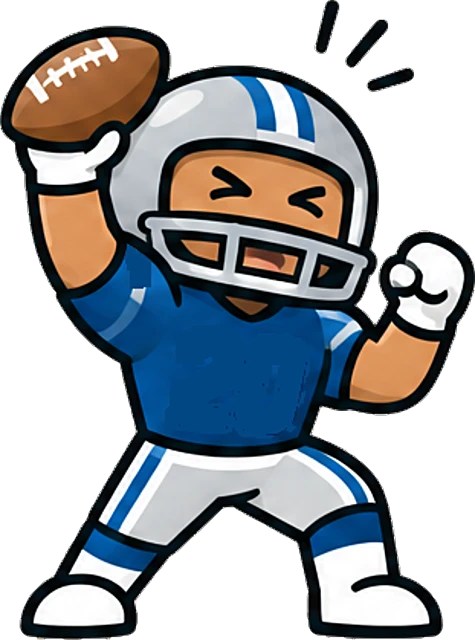
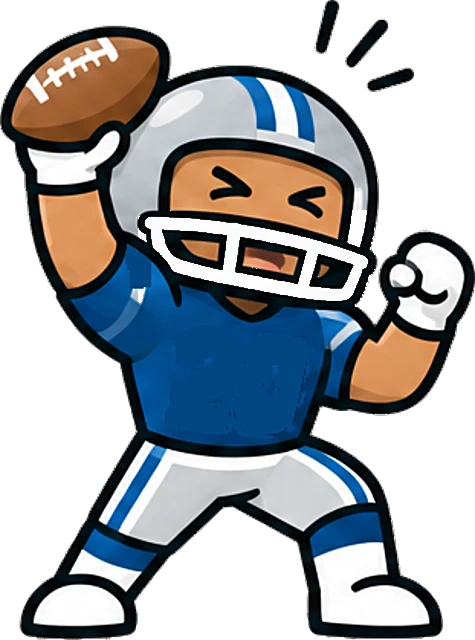
2.24.6: cards - every pose wears a white face mask

Changed region(s): [[0.2947, 0.3125, 0.7958, 0.4688], [0.2947, 0.4375, 0.3242, 0.4688]]

diff --git a/CHANGELOG.md b/CHANGELOG.md
@@ -20,6 +20,16 @@ CLAUDE.md.
 
 ## [Unreleased]
 
+## [2.24.6] - 2026-11-13
+
+Test site only.
+
+### Fixed
+- Cards: every pose wears a white face mask. Eight of the fourteen drew it in the helmet's grey, joined to the
+  helmet, so it took the team's second colour while the other six stayed white. The bars are picked out by
+  being thin and whitened when the sprites are built (`tools/cards/poses.json`, "mask"). Asked for by the
+  owner.
+
 ## [2.24.5] - 2026-11-13
 
 Test site only.
